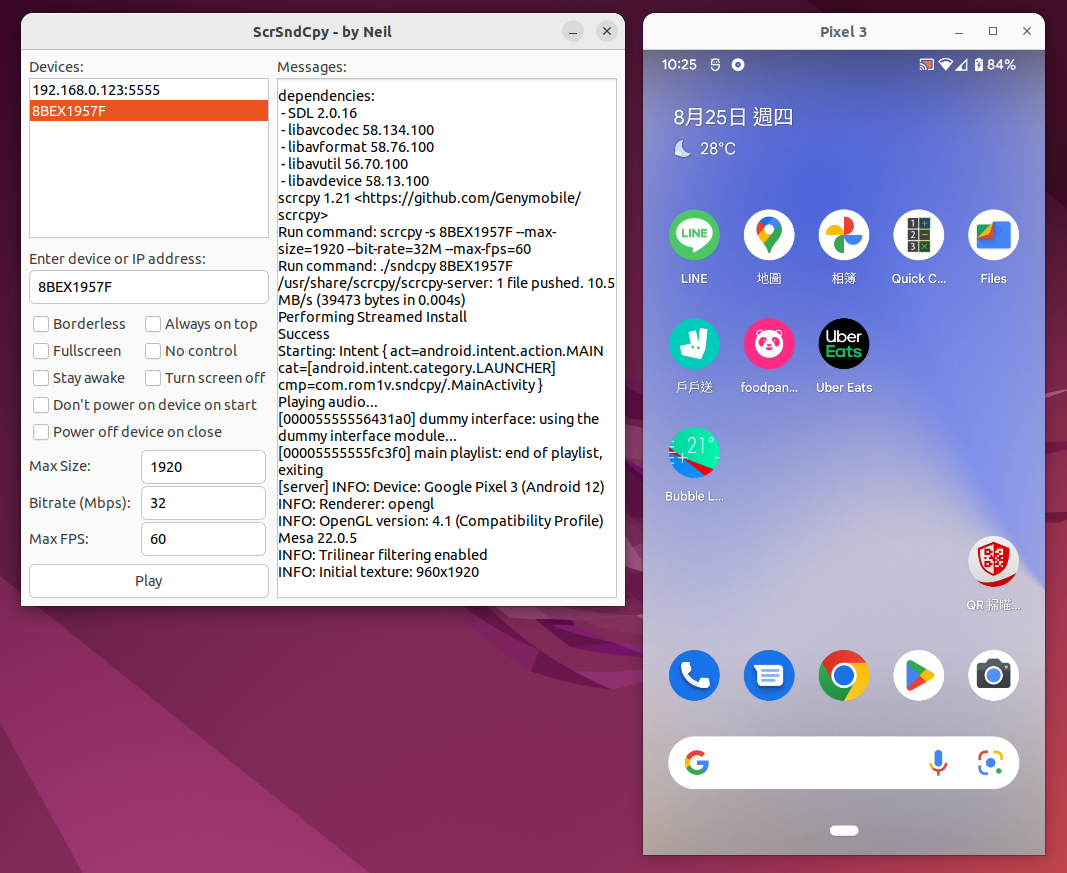
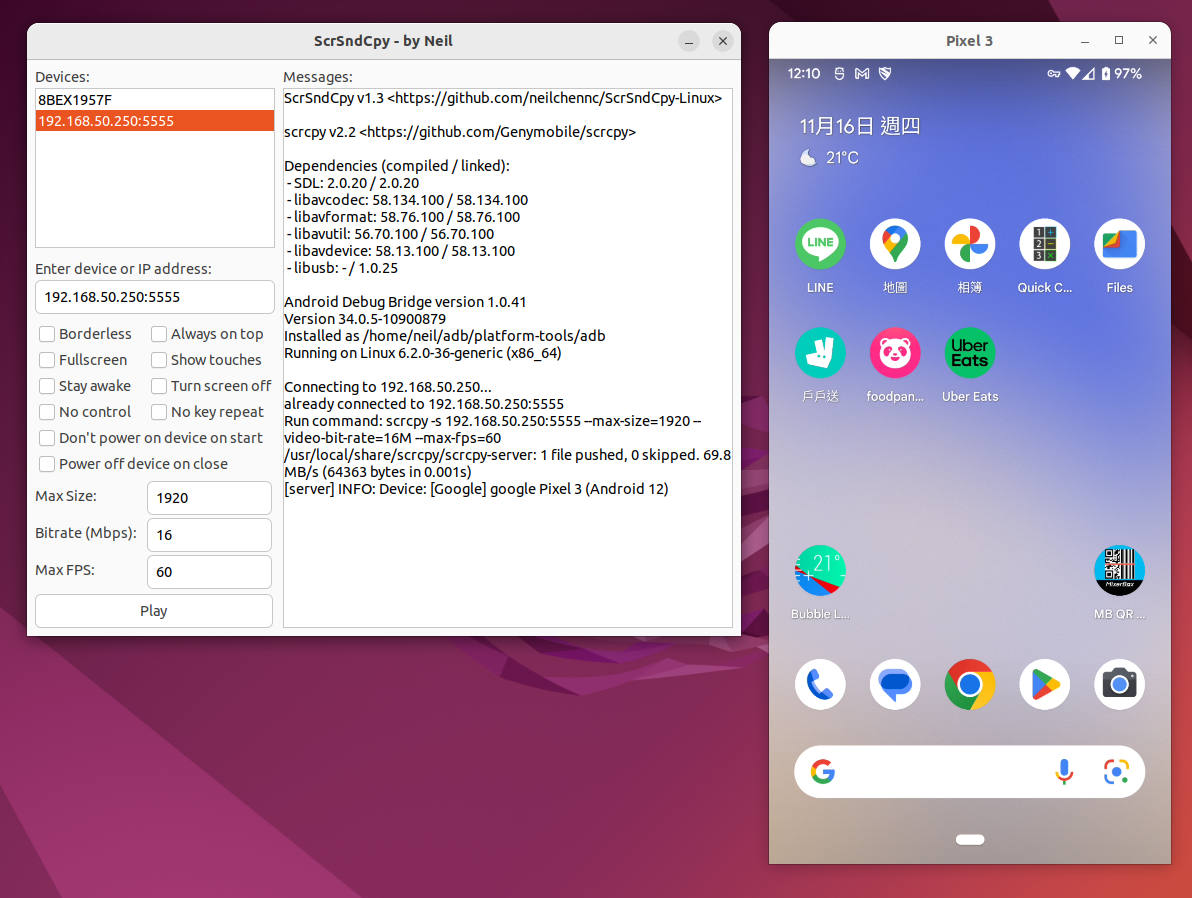
Update README.MD

diff --git a/README.md b/README.md
@@ -2,33 +2,29 @@
 
 *ScrSndCpy = **Scr**een **S**ou**nd** **C**o**py***
 
-A Linux (Ubuntu/Debian) GUI application executes both [scrcpy](https://github.com/Genymobile/scrcpy) and [sndcpy](https://github.com/rom1v/sndcpy) simultaneously, used to display screen, sound and control Android phones or tablets.
+A Linux (Ubuntu/Debian) GUI application to display screen, audio and control your Android devices on PC by executing [scrcpy](https://github.com/Genymobile/scrcpy) (passing commands and parameters to [scrcpy](https://github.com/Genymobile/scrcpy)).
 
 ![Screenshot](screenshots/scrsndcpy-screen.png "Screenshot")
 
 *Looking for Windows version? [Click here](https://github.com/neilchennc/ScrSndCpy-Windows)*
 
-## About scrcpy and sndcpy
+## About scrcpy
 
 [scrcpy](https://github.com/Genymobile/scrcpy) (Screen Copy) is an application provides display and control of Android devices connected via USB or over TCP/IP (requires at least Android 5.0) which developed by Genymobile.
 
-[sndcpy](https://github.com/rom1v/sndcpy) (Sound Copy) is an application forwards audio from an Android device to the computer (requires at least Android 10, and [VLC](https://www.videolan.org/) must be installed on the PC) which developed by rom1v.
-
-Both of them do NOT require any root access.
+It does NOT require any root access.
 
 ## Requirements
 
 - Linux (Ubuntu/Debian)
 
-- Android 5.0+ (or Android 10+ if you want audio output)
-
-- [VLC](https://www.videolan.org/) installed (install on PC, for audio output)
+- Android 5.0+ (Audio forwarding must Android 11+)
 
 ## Download
 
-- [ScrSndCpy-v1.2.tar.xz](https://github.com/neilchennc/ScrSndCpy-Linux/releases/download/v1.2/ScrSndCpy-v1.2.tar.xz)
+- [ScrSndCpy-v1.3.tar.xz](https://github.com/neilchennc/ScrSndCpy-Linux/releases/download/v1.3/ScrSndCpy-v1.3.tar.xz) (Built on Ubuntu 20.04.6)
 
-  SHA-256: 2e92d69c1e827b9ffb525e1f99424285801d0ee7816c8ada4c2eeb43b6032fc6
+  SHA-256: fe236d311f2b997d7149aef9ed1a5d959da2a3849958483cda671465221782b7
 
 ## How to use
 
@@ -36,19 +32,13 @@ Both of them do NOT require any root access.
 
 - Your Android devices must [enable debugging mode](https://developer.android.com/studio/command-line/adb.html#Enabling) before using ScrSndCpy, or find [tutorial videos on YouTube](https://www.youtube.com/results?search_query=android+enable+usb+debugging).
 
-- Install scrcpy:
+- Install latest **scrcpy** (or recommanded [build yourself](https://github.com/Genymobile/scrcpy/blob/master/doc/build.md)):
 
   ```bash
   sudo apt install scrcpy
   ```
 
-- Install VLC (for audio output):
-
-  ```bash
-  sudo apt install vlc
-  ```
-
-- Download latest ScrSndCpy and extract it
+- Download latest **ScrSndCpy** (or recommanded [build yourself](#build)) and extract it
 
 - Run **ScrSndCpy**
 
@@ -90,10 +80,24 @@ You have to enable tcp port on your device with following steps
 
 - Click **Play** button again
 
-## Shortcuts (references from scrcpy 1.24)
+## Shortcuts (references from [scrcpy 2.2](https://github.com/Genymobile/scrcpy/blob/master/doc/shortcuts.md))
+
+Actions can be performed on the scrcpy window using keyboard and mouse
+shortcuts.
 
 In the following list, <kbd>MOD</kbd> is the shortcut modifier. By default, it's
 (left) <kbd>Alt</kbd> or (left) <kbd>Super</kbd>.
+
+It can be changed using `--shortcut-mod`. Possible keys are `lctrl`, `rctrl`,
+`lalt`, `ralt`, `lsuper` and `rsuper`. For example:
+
+```bash
+# use RCtrl for shortcuts
+scrcpy --shortcut-mod=rctrl
+
+# use either LCtrl+LAlt or LSuper for shortcuts
+scrcpy --shortcut-mod=lctrl+lalt,lsuper
+```
 
 _<kbd>[Super]</kbd> is typically the <kbd>Windows</kbd> or <kbd>Cmd</kbd> key._
 
@@ -107,7 +111,7 @@ _<kbd>[Super]</kbd> is typically the <kbd>Windows</kbd> or <kbd>Cmd</kbd> key._
  | Resize window to 1:1 (pixel-perfect)        | <kbd>MOD</kbd>+<kbd>g</kbd>
  | Resize window to remove black borders       | <kbd>MOD</kbd>+<kbd>w</kbd> \| _Double-left-click¹_
  | Click on `HOME`                             | <kbd>MOD</kbd>+<kbd>h</kbd> \| _Middle-click_
- | Click on `BACK`                             | <kbd>MOD</kbd>+<kbd>b</kbd> \| _Right-click²_
+ | Click on `BACK`                             | <kbd>MOD</kbd>+<kbd>b</kbd> \| <kbd>MOD</kbd>+<kbd>Backspace</kbd> \| _Right-click²_
  | Click on `APP_SWITCH`                       | <kbd>MOD</kbd>+<kbd>s</kbd> \| _4th-click³_
  | Click on `MENU` (unlock screen)⁴            | <kbd>MOD</kbd>+<kbd>m</kbd>
  | Click on `VOLUME_UP`                        | <kbd>MOD</kbd>+<kbd>↑</kbd> _(up)_
@@ -127,13 +131,23 @@ _<kbd>[Super]</kbd> is typically the <kbd>Windows</kbd> or <kbd>Cmd</kbd> key._
  | Enable/disable FPS counter (on stdout)      | <kbd>MOD</kbd>+<kbd>i</kbd>
  | Pinch-to-zoom                               | <kbd>Ctrl</kbd>+_click-and-move_
  | Drag & drop APK file                        | Install APK from computer
- | Drag & drop non-APK file                    | Push file to device
+ | Drag & drop non-APK file                    | [Push file to device](control.md#push-file-to-device)
 
 _¹Double-click on black borders to remove them._  
 _²Right-click turns the screen on if it was off, presses BACK otherwise._  
 _³4th and 5th mouse buttons, if your mouse has them._  
 _⁴For react-native apps in development, `MENU` triggers development menu._  
 _⁵Only on Android >= 7._
+
+Shortcuts with repeated keys are executed by releasing and pressing the key a
+second time. For example, to execute "Expand settings panel":
+
+ 1. Press and keep pressing <kbd>MOD</kbd>.
+ 2. Then double-press <kbd>n</kbd>.
+ 3. Finally, release <kbd>MOD</kbd>.
+
+All <kbd>Ctrl</kbd>+_key_ shortcuts are forwarded to the device, so they are
+handled by the active application.
 
 You can check out [scrcpy](https://github.com/Genymobile/scrcpy) and [sndcpy](https://github.com/rom1v/sndcpy) for more introductions, functions and controls.
 
@@ -148,3 +162,36 @@ You can check out [scrcpy](https://github.com/Genymobile/scrcpy) and [sndcpy](ht
 - Language: C
 
 - IDE: Visual Studio Code
+
+## Build
+
+Install build tools and GTK3
+
+```bash
+sudo apt update
+
+# build-essential
+sudo apt install build-essential
+
+# GTK3
+sudo apt install libgtk-3-dev
+```
+
+Clone the project
+
+```bash
+git clone https://github.com/neilchennc/ScrSndCpy-Linux.git
+cd ScrSndCpy-Linux
+```
+
+Build
+
+```bash
+make
+```
+
+Run
+
+```bash
+./ScrSndCpy
+```
